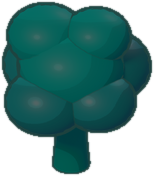
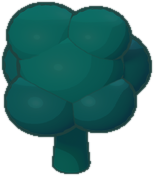
树冠每一瓣的高光去掉：参考图树冠的饱和度只在一条 0.124 宽的带里
参考图一棵孤立树的树冠 S p10/中位/p90 = 0.760/0.822/0.884，发白（低于中位 0.7 倍）
只占 0.38%；我们 oak 0.648/0.861/0.990 发白 7.22%，pine 0.567/0.826/0.977 发白
10.83%——每一瓣中间一个白点。GROVE_CAP 当初压的是高光的明度，白度留着。

band() 加一道彩度压缩，c' = V - (V-c)*(S'/S)，所有通道到 V 的距离同比缩放，色相和
明度不动。GROVE_SAT_K = 0.30：oak 跨度 0.342→0.113、pine 0.410→0.135，两棵平均
0.124 正对参考图；发白 oak→1.43%、pine→0.21%。面积不变，图集仍 359 帧。

只给 oak 和 pine：snowpine 的雪是故意去饱和的、rocks 是灰的（S 中位 0.040），拉向
中位数等于给雪和石头上色。

oak 的发白停在 1.43% 下不去——那是瓣缝缩图后的过渡像素，形状的事。整棵树还是读成
八个球而不是一团画出来的冠，那要改 Blender 的树冠模型。放回棋盘差别比 D117 还小。
D118

diff --git a/tools/art3d/sprite.py b/tools/art3d/sprite.py
@@ -105,11 +105,9 @@ GROVE_INK = (31, 66, 62)
 # median and the p88 where they are (11.7% of an oak's pixels are above 0.40 at all) and lands the
 # brightest at about 0.43.
 #
-# It is NOT applied to the rest of the toned props, and the reason is last round's: cactus sits at
-# 0.580 of p88 on sand at 0.84 and snowpine at 0.502 on snow at 0.90-0.95, so this knee would cut
-# their bodies by a tenth and a seventh, not just their tails -- a real change to two boards nobody
-# has measured. The litter is left out for the same reason twice over: the reference's forest frames
-# carry no litter at all, so there is nothing there to measure a ceiling against.
+# NOT applied to the rest of the toned props: cactus sits at 0.580 of p88 on sand at 0.84 and
+# snowpine at 0.502 on snow at 0.90-0.95, so this knee would cut their bodies by a tenth and a
+# seventh, not just their tails. The litter is out too -- the reference's forest carries none.
 GROVE_CAP = {'t': 0.40, 'c': 0.25}
 # AND THEN IT IS PAINTED IN STEPS, NOT IN A GRADIENT (D117). A render shades a sphere smoothly and
 # the reference paints a canopy in flat tiers, and that -- more than hue, value or outline -- is why
@@ -123,11 +121,18 @@ GROVE_CAP = {'t': 0.40, 'c': 0.25}
 # downscale as a one-px anti-aliased edge and not a staircase. Below 0.14 nothing is touched: that
 # is the ink's and the deep undersides' range, and the band would only flatten them together.
 GROVE_BAND = (0.263, 0.345, 0.392, 0.424)
-# And it is a PULL toward the tiers, not a snap onto them. Snapped outright (k = 1) the same six
-# levels covered 88.9% of an oak and 89.6% of a pine against the reference's 60.0% -- past it, and
-# a canopy of hard plates is as wrong as one of balloons. The reference is painted in tiers AND
-# shaded within them; 0.55 lands oak at 55.0% and pine at 63.6%, averaging its 60.0%.
+# A PULL toward the tiers, not a snap: snapped outright (k = 1) those six levels covered 88.9% of
+# an oak against the reference's 60.0%, and plates are as wrong as balloons -- it is painted in
+# tiers AND shaded within them. 0.55 lands oak at 55.0% and pine at 63.6%, averaging its 60.0%.
 GROVE_BAND_K = 0.55
+# D118: AND THE GLOSS OFF ITS LOBES. GROVE_CAP capped the speculars' VALUE; their whiteness stayed.
+# The reference's canopy holds saturation in a narrow band -- p10/median/p90 0.760/0.822/0.884,
+# 0.38% of it under 0.7 of the median -- where ours ran 0.648/0.861/0.990 (oak) and 0.567/0.826/
+# 0.977 (pine), 7.2% and 10.8% washed out: a white dot on every lobe. Chroma is pulled toward the
+# body's own median by this much, hue and value untouched. Oak and pine only: snowpine's snow is
+# deliberately desaturated and rock is grey at 0.04, so a pull to a median would paint them in.
+GROVE_SAT_K = 0.30
+GROVE_SAT = {'oak', 'pine'}
 sys.path.insert(0, str(Path(__file__).resolve().parents[1] / 'art'))
 from sprites import TARGET as _GROUPS, TEAMLESS  # noqa: E402  the sticker art's sizes and groups
 
@@ -297,8 +302,8 @@ def tone(im: Image.Image, geo, cap=None) -> Image.Image:
     return Image.fromarray(np.clip(a + 0.5, 0, 255).astype(np.uint8), 'RGBA')
 
 
-def band(im: Image.Image, levels, k: float = 1.0) -> Image.Image:
-    """Pull a body's value toward flat tiers (D117); hue and saturation untouched."""
+def band(im: Image.Image, levels, k: float = 1.0, sat: bool = False) -> Image.Image:
+    """Pull a body's value toward flat tiers (D117), and its chroma together (D118)."""
     a = np.asarray(im).astype(np.float64)
     rgb = a[..., :3] / 255
     v = rgb.max(-1)
@@ -306,6 +311,12 @@ def band(im: Image.Image, levels, k: float = 1.0) -> Image.Image:
     snap = v + k * (lv[np.abs(v[..., None] - lv).argmin(-1)] - v)
     m = (v > 0.14) & (a[..., 3] > 128)
     out = np.where(m[..., None], rgb * (snap / np.maximum(v, 1e-6))[..., None], rgb)
+    if sat:                            # the gloss off the lobes: chroma toward the body's own
+        vv = out.max(-1)               # median, hue and value untouched (D118)
+        sv = 1 - out.min(-1) / np.maximum(vv, 1e-6)
+        med = float(np.median(sv[m]))
+        f = np.where(m & (sv > 1e-6), (med + (sv - med) * GROVE_SAT_K) / np.maximum(sv, 1e-6), 1.0)
+        out = vv[..., None] - (vv[..., None] - out) * f[..., None]
     a[..., :3] = np.clip(out, 0, 1) * 255
     return Image.fromarray(np.clip(a + 0.5, 0, 255).astype(np.uint8), 'RGBA')
 
@@ -381,7 +392,7 @@ def sym(im, b):
 
 
 def make(paths, height: int, px: int, want=None, geos=None, deep=False, ink_rgb=None, cap=None,
-         bands=None):
+         bands=None, sat=False):
     """Size one group of frames together: shared crop box, one scale solved on the first frame."""
     ims = [Image.open(f).convert('RGBA') for f in paths]
     ims, geos = centred(ims, geos)
@@ -411,7 +422,7 @@ def make(paths, height: int, px: int, want=None, geos=None, deep=False, ink_rgb=
         if deep:                       # the body down, the lit faces back up: scenery only
             im = tone(im, g, cap)
         if bands is not None:          # and then into flat tiers: grove only
-            im = band(im, bands, GROVE_BAND_K)
+            im = band(im, bands, GROVE_BAND_K, sat)
         if g is not None:
             im = inner_lines(im, g, im.height / lo, ink_rgb)
         out.append(sized(im, lo, px, one, ink_rgb))
@@ -480,7 +491,7 @@ def main():
                    GROVE_PX if grove else max(1, round(px / 2)) if lit else px,
                    None if lit or grove else want, geos, deepen and name in SCENERY,
                    GROVE_INK if grove else None, GROVE_CAP if grove else None,
-                   GROVE_BAND if grove else None)
+                   GROVE_BAND if grove else None, name in GROVE_SAT)
         for f, im in zip(paths, ims):
             im.save(out / f.name)
         print(base, len(ims), ims[0].size, 'area', area(ims[0]), 'old', want)

diff --git a/DECISIONS.md b/DECISIONS.md
@@ -3714,3 +3714,32 @@ rocks 67.5%，两棵树平均 59.3%，正对它的 60.0%。面积逐张不变（
 收进来了，暖墨色的值正好就是读出来的 0.259。把 S 收到 0.62 以上只留布料，两队是齐的：
 蓝 V50 0.78~0.98 / S 0.77~0.80，红 V50 0.70~0.88 / S 0.74~0.76，像素数也一样多。
 一条基于百分位的整区读数又一次差点变成一次错误的改动。
+
+
+## D118 树冠上每一瓣的高光去掉：参考图的树冠饱和度只在一条很窄的带里
+
+D117 把明度分了层，放大看还是八个气球——因为**每一瓣中间都有一个发白的高光点**。
+GROVE_CAP 当初压的是高光的**明度**，它的「白」原封不动留着。
+
+量：取参考图里一棵孤立的树（IMG_3717, 250..420 x 790..960），树冠的饱和度
+p10/中位/p90 是 **0.760/0.822/0.884**，跨度只有 0.124，低于中位数 0.7 倍的（发白的）
+只占 **0.38%**。我们 oak 是 0.648/0.861/0.990（跨度 0.342，发白 **7.22%**），
+pine 0.567/0.826/0.977（跨度 0.410，发白 **10.83%**）——一瓣一个白点。
+
+改法：`band()` 里加一道彩度压缩，把彩度拉向这个景物自己的中位数，
+`c' = V - (V - c) * (S'/S)`——所有通道到 V 的距离同比缩放，**色相和明度一个数都不动**。
+`GROVE_SAT_K = 0.30`：oak 跨度 0.342 → **0.113**，pine 0.410 → **0.135**，两棵平均 0.124，
+正是参考图的 0.124。发白比例 oak 7.22% → 1.43%，pine 10.83% → 0.21%。面积不变
+（`area 18300 old 18300` / `area 15755 old 15755`），图集仍 359 帧 4096x3132。
+
+**只给 oak 和 pine**（`GROVE_SAT`）。snowpine 的雪是故意去饱和的（整体 S 中位 0.530，
+雪那一半更低），rocks 是灰的（S 中位 **0.040**）——把它们拉向各自的中位数等于给雪和石头
+上色，所以这两个不碰，它们的数一个没变。
+
+**还差多少，说清楚：** oak 的发白比例停在 1.43%，再压也下不去——剩下的不是高光，是
+**瓣与瓣之间的缝**在缩图时把暗边和亮面混出来的过渡像素，那是形状的事。放大看高光确实从
+发白变成了发绿，但**整棵树的读感还是「八个球」而不是参考图的「一团画出来的冠」**：
+参考图是一个扇贝边的大色块加一圈暗边加一条偏蓝的暗底，我们是八个各自打光的球体，
+这一条要改 Blender 的模型（`beasts.py`/`props.py` 的树冠），不是着色能解决的。
+回到 40 px 的棋盘上，这次的差别比 D117 还小，基本要并排比才看得出来。
+另外参考图树冠的底部明显**偏蓝**，我们的底部只是变暗不变蓝——下一条量这个。
